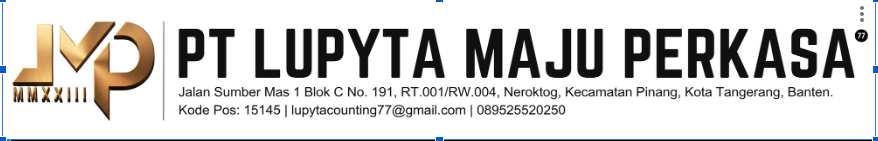
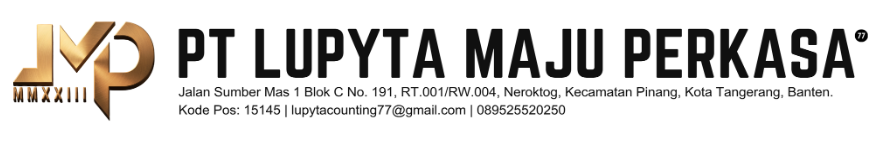
feat(ui): add non-editable letterhead to payslip modals
Integrated a static, non-editable letterhead component into both the PayslipModal and PartTimePayrollSummary views to ensure consistent corporate branding across all payroll documents.

diff --git a/src/components/PartTimePayrollSummary.tsx b/src/components/PartTimePayrollSummary.tsx
@@ -1822,6 +1822,24 @@ export const PartTimePayrollSummary: React.FC<PartTimePayrollSummaryProps> = ({
         return (
           <div className="fixed inset-0 z-50 bg-slate-900/60 backdrop-blur-xs flex items-center justify-center p-4 print:p-0 print:bg-white">
             <div className="bg-white rounded-2xl max-w-2xl w-full p-6 shadow-2xl border border-slate-200 max-h-[90vh] overflow-y-auto print:max-h-none print:shadow-none print:border-slate-400 print:rounded-none">
+              {/* Kop Surat Resmi PT Lupyta Maju Perkasa (Statis / Non-Editable) */}
+              <div
+                contentEditable={false}
+                suppressContentEditableWarning
+                tabIndex={-1}
+                aria-readonly="true"
+                className="w-full border-b-2 border-slate-900 pb-2.5 mb-3 print:pb-2 print:mb-2.5 select-none pointer-events-none"
+              >
+                <div className="w-full overflow-hidden bg-white select-none pointer-events-none">
+                  <img
+                    src="/assets/aistudio/kop_surat_lupyta_clean.png"
+                    alt="Kop Surat Resmi PT Lupyta Maju Perkasa"
+                    draggable={false}
+                    className="w-full h-auto object-contain block select-none pointer-events-none"
+                  />
+                </div>
+              </div>
+
               <div className="flex items-center justify-between pb-4 border-b border-slate-200">
                 <div className="flex items-center gap-2.5">
                   <div className="p-2 rounded-xl bg-orange-600 text-white print:hidden">

diff --git a/src/components/PayslipModal.tsx b/src/components/PayslipModal.tsx
@@ -1083,13 +1083,20 @@ export const OfficialPayslipDocument: React.FC<OfficialPayslipDocumentProps> = (
 
   return (
     <div className="bg-white text-slate-900 border border-slate-300 rounded-xl p-5 sm:p-8 print:p-3 print:border-slate-400 print:rounded-none print:shadow-none font-sans text-xs leading-relaxed">
-      {/* 1. KOP SURAT RESMI PT LUPYTA MAJU PERKASA & JUDUL SLIP GAJI */}
-      <div className="w-full border-b-2 border-slate-900 pb-2.5 mb-3 print:pb-2 print:mb-2.5">
-        <div className="w-full overflow-hidden rounded-xs">
+      {/* 1. KOP SURAT RESMI PT LUPYTA MAJU PERKASA & JUDUL SLIP GAJI (STATIS / NON-EDITABLE) */}
+      <div
+        contentEditable={false}
+        suppressContentEditableWarning
+        tabIndex={-1}
+        aria-readonly="true"
+        className="w-full border-b-2 border-slate-900 pb-2.5 mb-3 print:pb-2 print:mb-2.5 select-none pointer-events-none"
+      >
+        <div className="w-full overflow-hidden bg-white select-none pointer-events-none">
           <img
-            src="/assets/aistudio/image_2a293321.png"
+            src="/assets/aistudio/kop_surat_lupyta_clean.png"
             alt="Kop Surat Resmi PT Lupyta Maju Perkasa"
-            className="w-full h-auto object-contain block scale-[1.012] origin-center"
+            draggable={false}
+            className="w-full h-auto object-contain block select-none pointer-events-none"
           />
         </div>
       </div>
